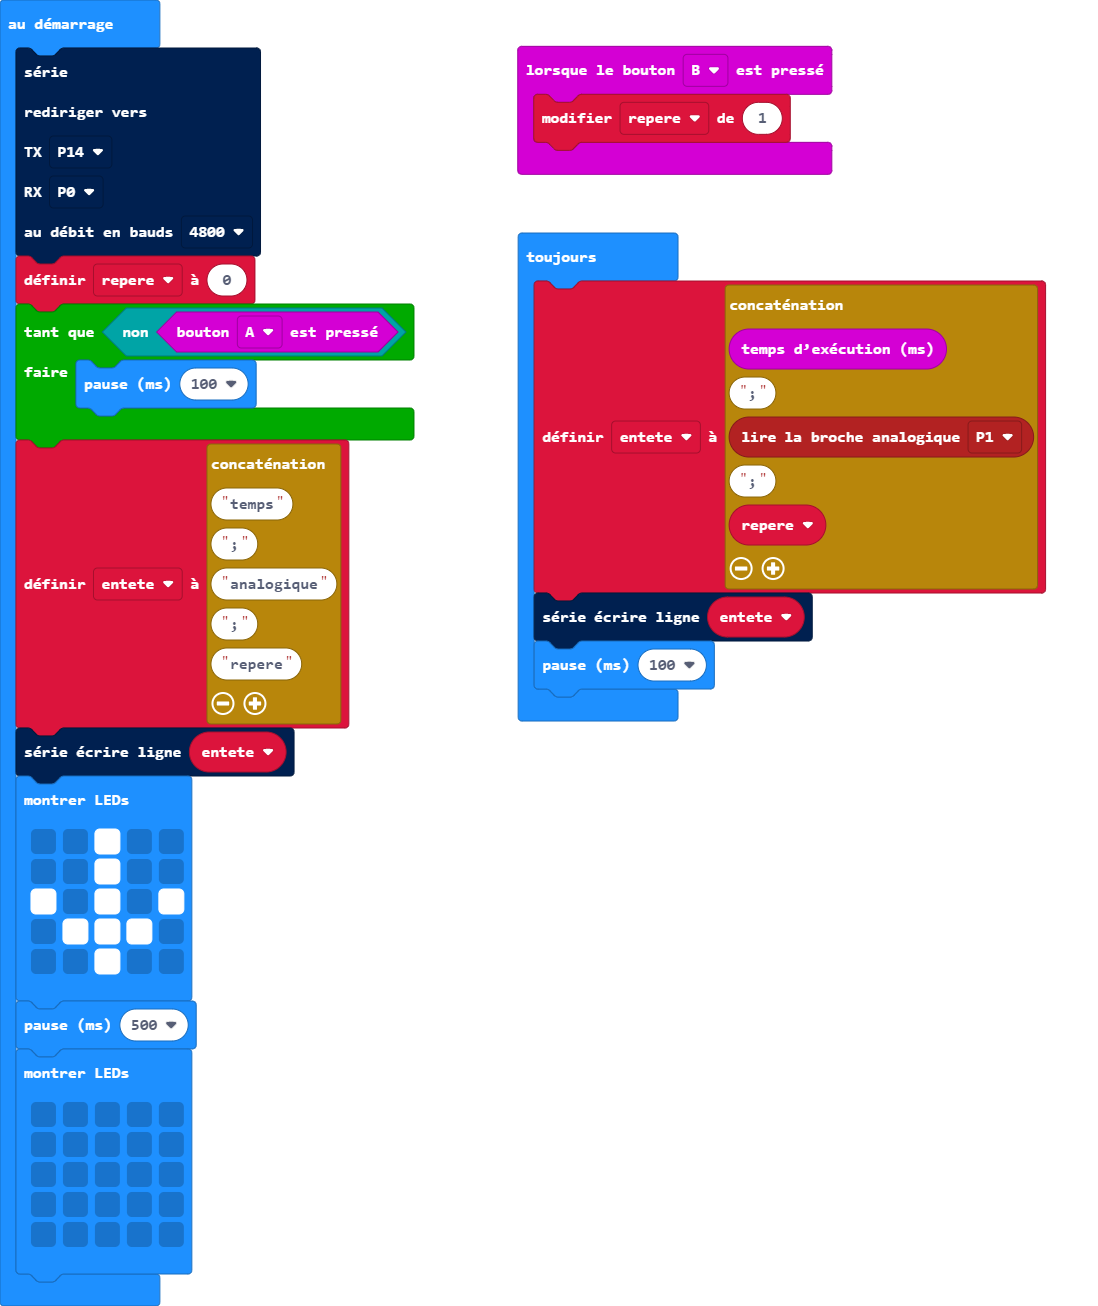
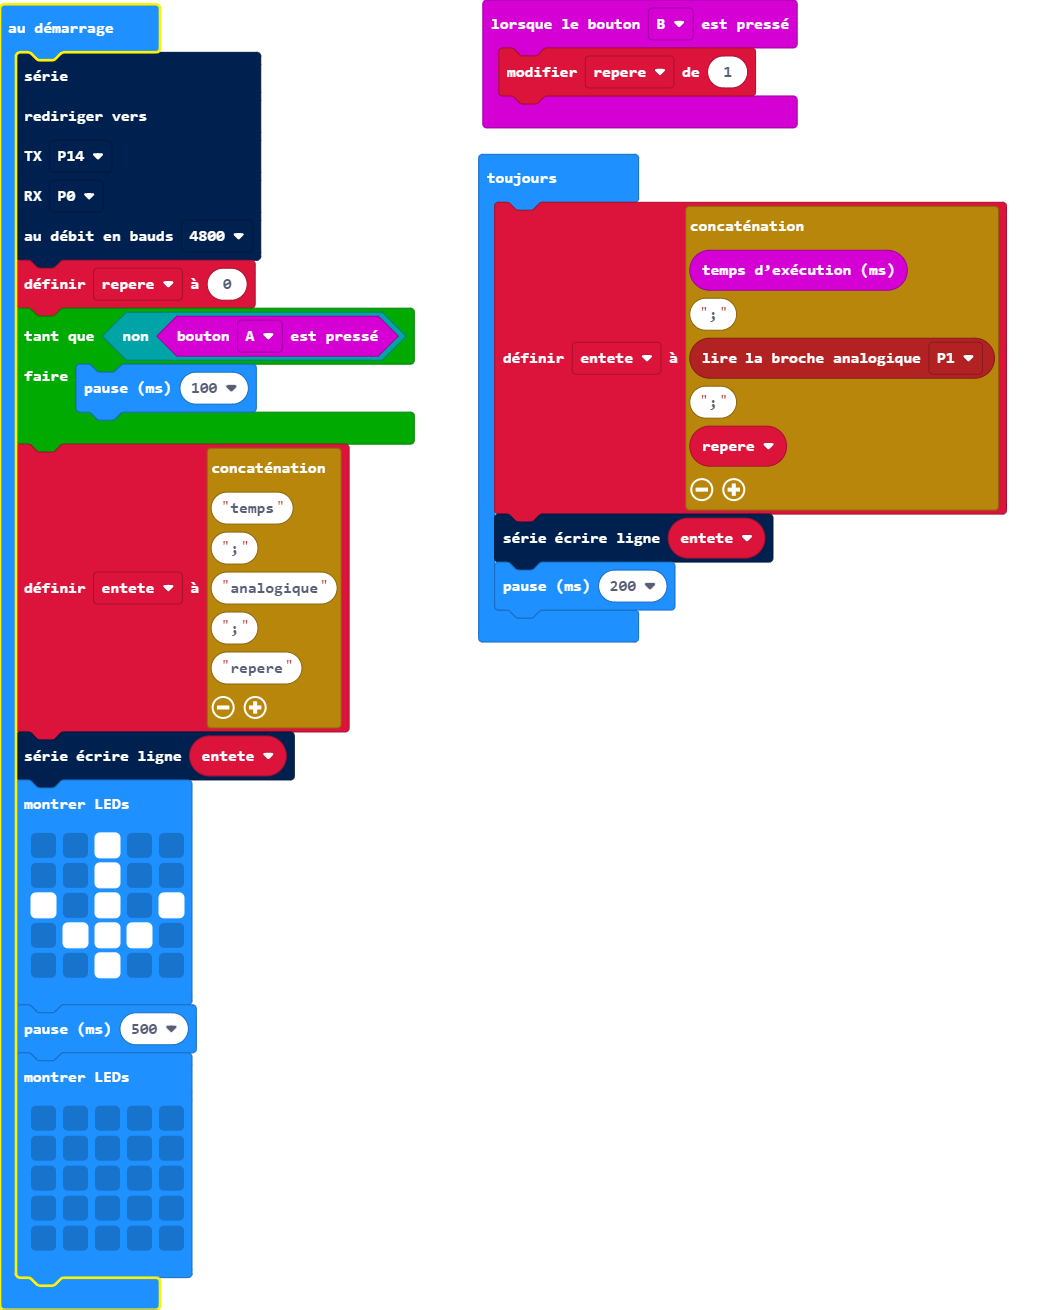
Mise à jour main.blocks, main.ts

diff --git a/main.ts b/main.ts
@@ -30,5 +30,5 @@ basic.showLeds(`
 basic.forever(function () {
     entete = "" + input.runningTime() + ";" + pins.analogReadPin(AnalogPin.P1) + ";" + repere
     serial.writeLine(entete)
-    basic.pause(100)
+    basic.pause(200)
 })
